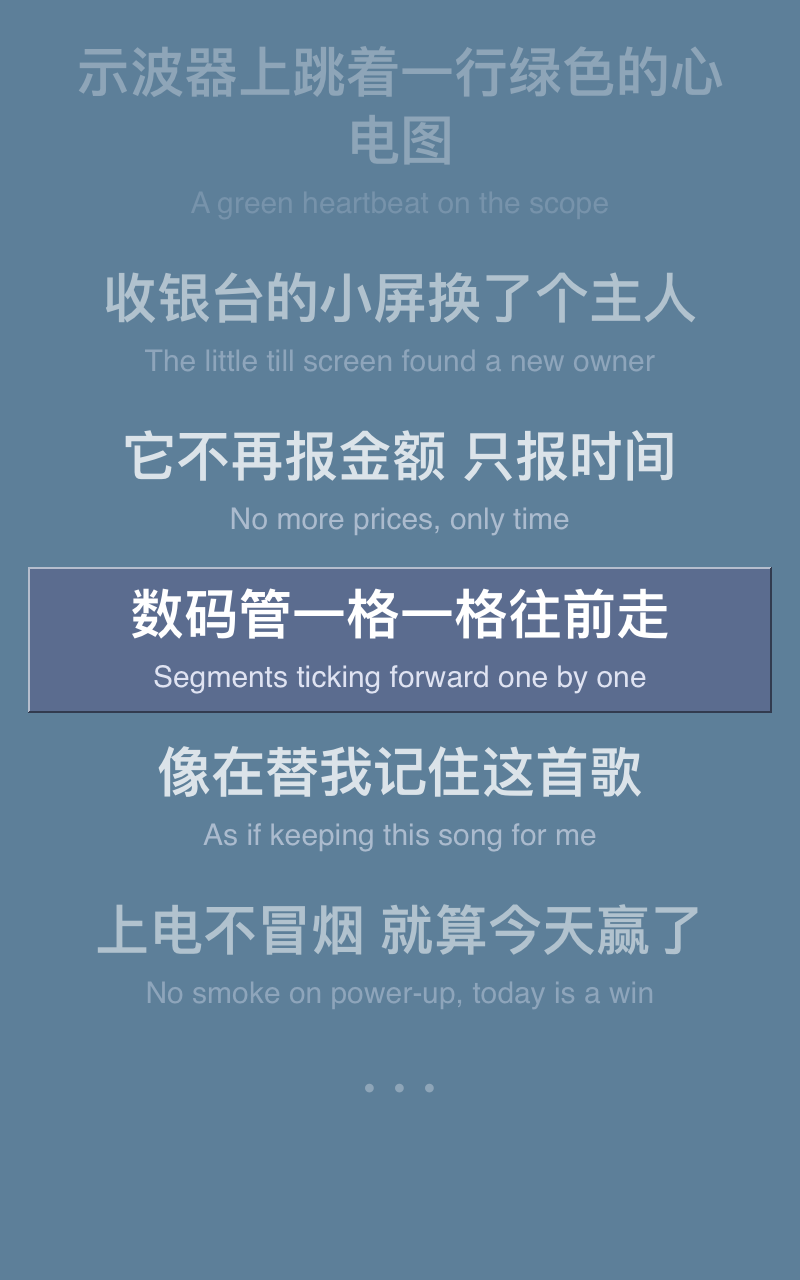
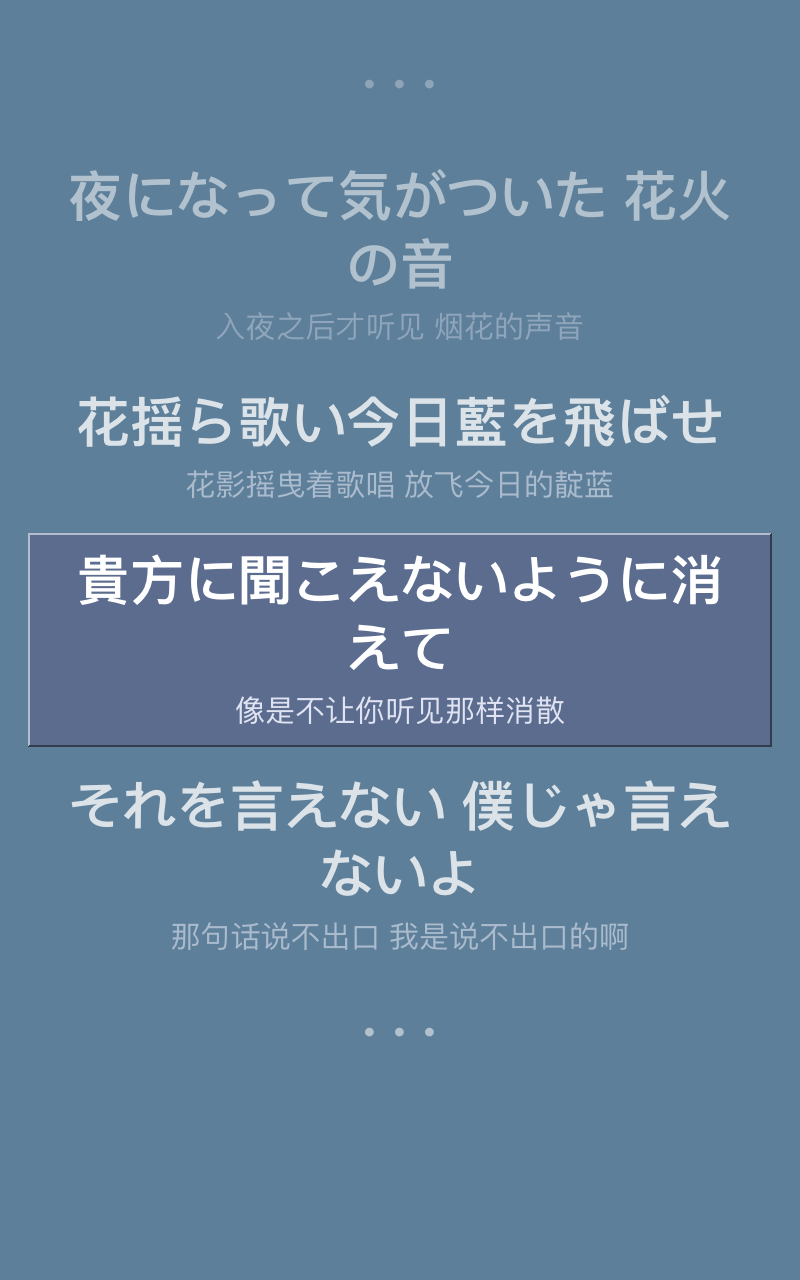
docs: 预览图样例换成《もうじき夏が終わるから》节选
样例歌名/歌手改为 n-buna《もうじき夏が終わるから》，歌词只留截图里出现的 4 句，中文翻译自拟；
README 注明出处。重新生成歌词页（播放中/暂停）和沉浸模式三张预览图。

Changed region(s): [[0.0938, 0.0312, 0.9062, 0.8125], [0.7812, 0.125, 0.9062, 0.1875]]

diff --git a/README.md b/README.md
@@ -97,7 +97,7 @@ mac/                    Swift 包 MonitaCS80
   Sources/MonitaCore/   纯逻辑：歌词定位/折行、像素与 tile diff、推帧决策、帧键省电
   Sources/monita-cs80/  渲染器本体（CoreGraphics 画面、锁屏、推帧循环）
   Tests/                swift-testing 用例
-  Samples/              预览图用的样例数据（歌词是编的）
+  Samples/              预览图用的样例数据（歌词节选自 n-buna《もうじき夏が終わるから》，仅作预览）
 tools/
   host-ref/             Python 参考上位机（pyserial）：握手、推图、差分、测吞吐、撕裂对比
   lyrics/               lyrics.py（当前播放 + 网易云歌词 + 小 HTTP 服务）· lyrics_core.js · build-nowplaying.sh · 测试
